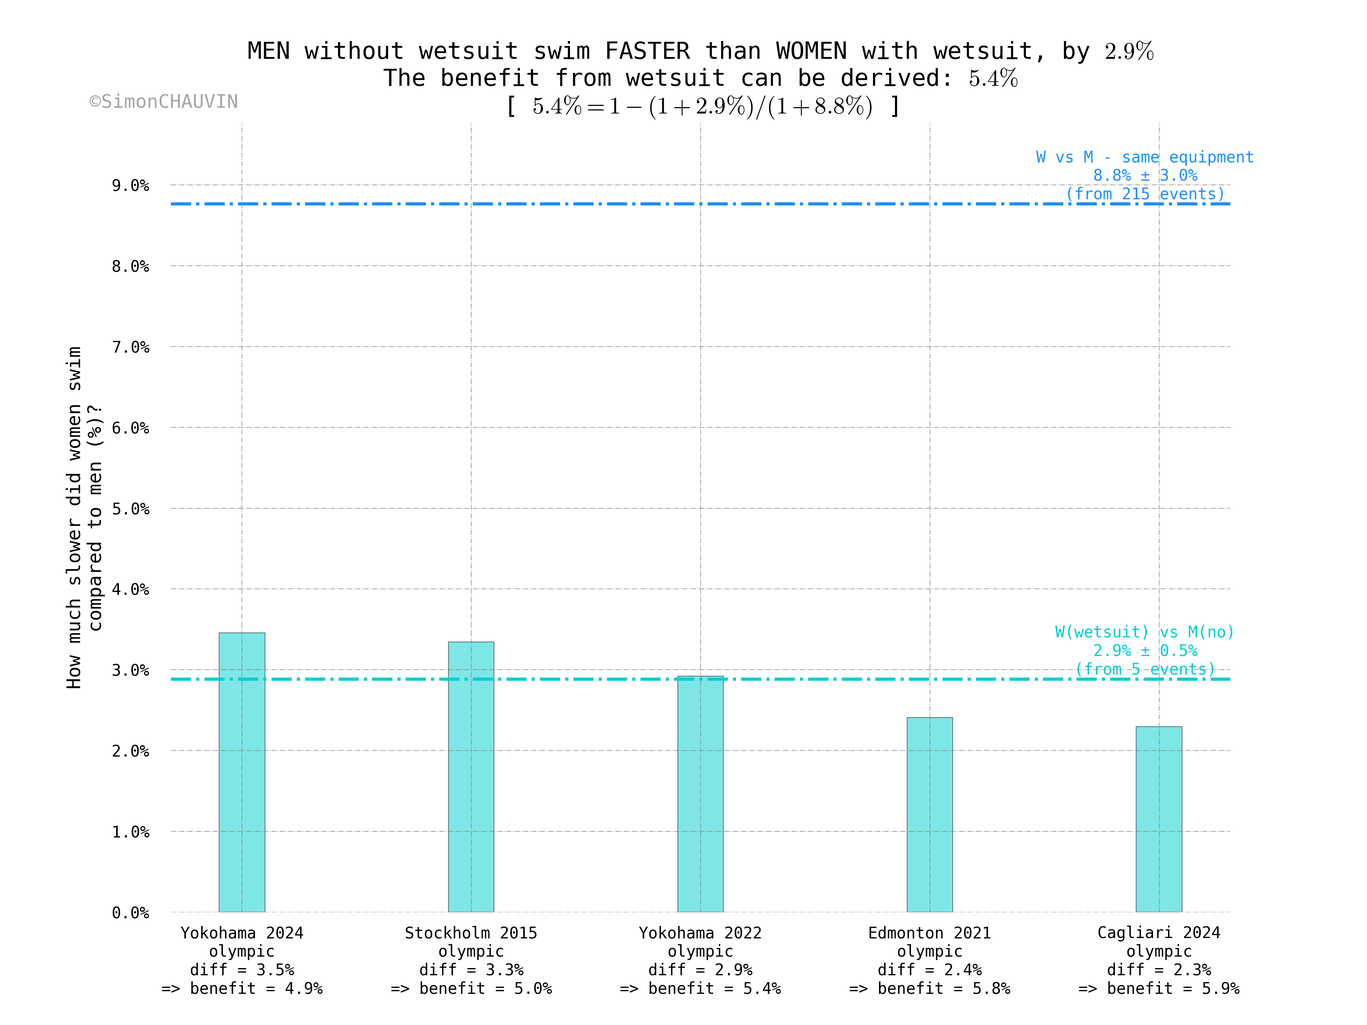
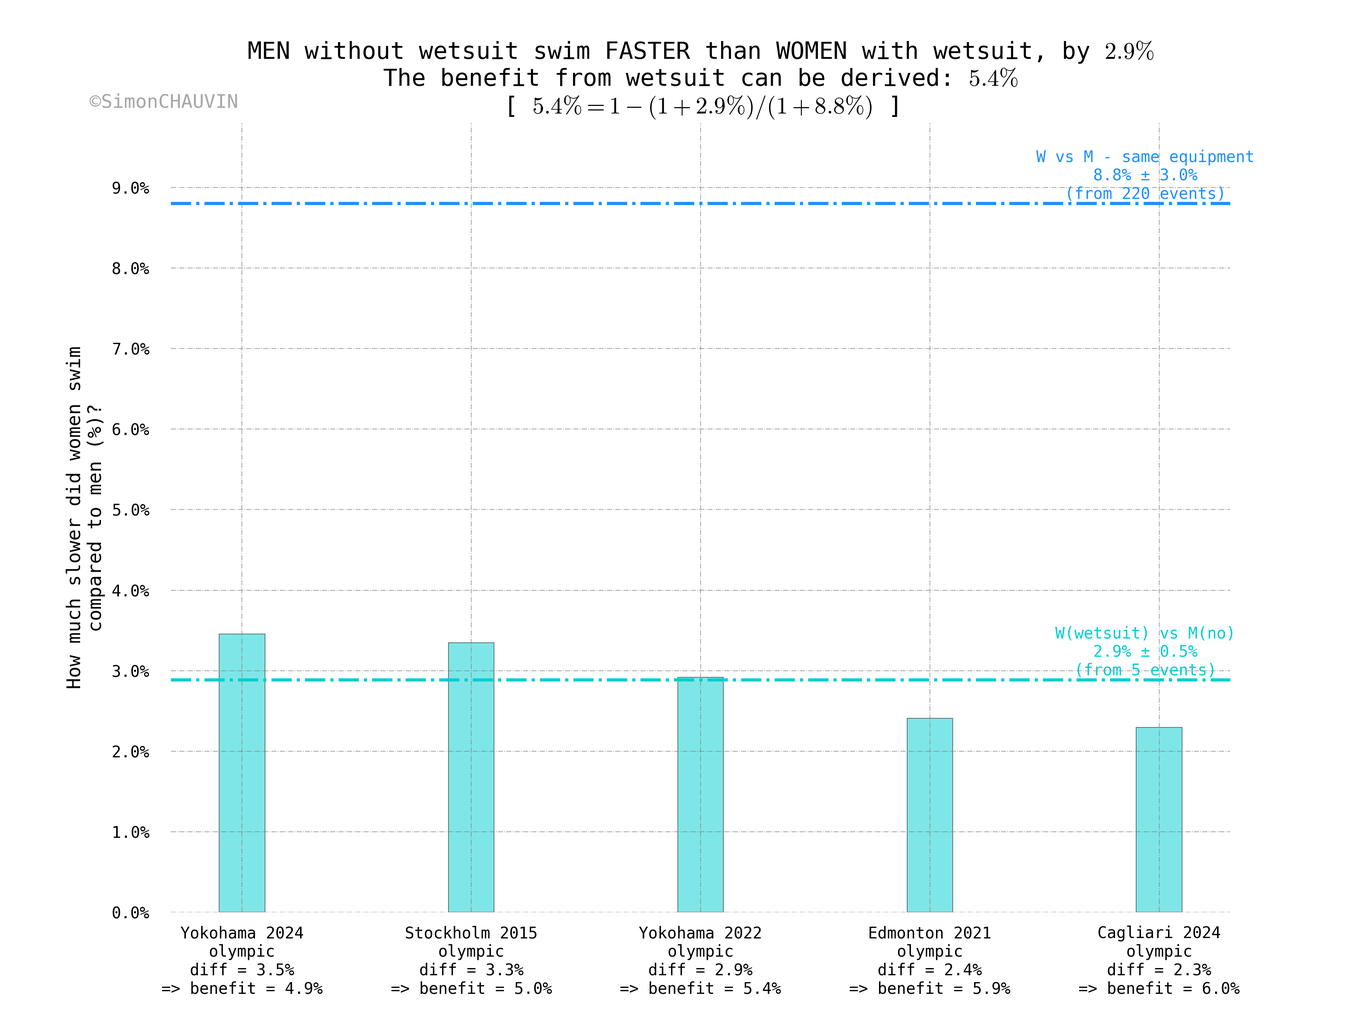
refine wetsuit

diff --git a/scripts/main_events.py b/scripts/main_events.py
@@ -18,6 +18,9 @@ def process_results_wetsuit(
         distance_categories,
         sport_outliers
 ):
+    # ? ignore World Cups
+    # df = df[df["event_category"] != "world-cup"]
+
     # remove outliers?
     outliers = df[df["swim_diff_percent"] >= swim_diff_percent_max]
     print(f"{len(outliers)} swim outliers:")
@@ -159,12 +162,14 @@ def process_results_wetsuit(
         colalign=["center"] * len(df_table.columns)
     ))
 
-    # ? ignore World Cups
+    # remove Sydney 2012 outlier
+    swim_diff_percent_women_fast = swim_diff_percent_women_fast[swim_diff_percent_women_fast["event_id"] != 54370]
+    # remove Haeundae 2021 outlier
+    swim_diff_percent_women_fast = swim_diff_percent_women_fast[swim_diff_percent_women_fast["event_id"] != 154591]
+
+    # ? ignore World Cups for women_fast
     swim_diff_percent_women_fast = swim_diff_percent_women_fast[
         swim_diff_percent_women_fast["event_category"] != "world-cup"]
-
-    # remove Sydney outlier
-    swim_diff_percent_women_fast = swim_diff_percent_women_fast[swim_diff_percent_women_fast["event_id"] != 54370]
 
     if len(swim_diff_percent_women_fast) == 0:
         print("no data where [women with wetsuit] and [men without wetsuit]")
@@ -389,7 +394,7 @@ def process_results_wetsuit(
             print(f"\twet_mean    = {wet_mean:.0f} ±{wet_std:.0f} ({len(wet):,})")
             print(f"\tno_wet_mean = {no_wet_mean:.0f} ±{no_wet_std:.0f} ({len(no_wet):,})")
             improve_percent = (no_wet_mean - wet_mean) / no_wet_mean
-            print(f"\timprove_percent = {improve_percent :.1%}")
+            print(f"\timprove_percent = {improve_percent :.2%}")
             print(f"\t range wetsuit: {wet.min()} - {wet.max()} = {wet.max() - wet.min()}")
             print(f"\t range no wetsuit: {no_wet.min()} - {no_wet.max()} = {no_wet.max() - no_wet.min()}")
             improve_percents.append(improve_percent)
@@ -832,9 +837,9 @@ def process_results_repeated_events(
         df,
         distance_categories,
         sports,
-        sport_outliers
+        sport_outliers,
+        n_repetitions_min
 ):
-    n_repetitions_min = 4
 
     df = df.sort_values("event_date_m")
 
@@ -2678,7 +2683,10 @@ def process_wetsuit_from_repeated_events(
         df,
         swim_diff_percent_max: float,
         distance_categories,
-        sport_outliers
+        sport_outliers,
+        max_year_gap,
+        min_wet_gain_percent,
+        max_wet_gain_percent,
 ):
     # remove outliers?
     outliers = df[df["swim_diff_percent"] >= swim_diff_percent_max]
@@ -2691,13 +2699,6 @@ def process_wetsuit_from_repeated_events(
     df = drop_outliers(df, i_sport=0, sport_outliers=sport_outliers)
 
     # rows with no wetsuit info have already been dropped
-
-
-    # todo: config
-    max_year_gap = 5
-    # todo: config
-    min_wet_gain_percent = -5
-    max_wet_gain_percent = 14
 
     swim_time_infos = []
     groups = df.groupby(["event_venue"])
@@ -2957,6 +2958,7 @@ def main():
 
     distance_categories = events_config["distance_categories"]
     sports = events_config["sports"]
+    n_repetitions_min = events_config["n_repetitions_min"]
     swim_diff_percent_max = events_config["cleaning"]["swim_diff_percent_max"]
     sport_outliers = events_config["cleaning"]["sport_outliers"]
     ###

diff --git a/scripts/main_t1_with_wetsuit.py b/scripts/main_t1_with_wetsuit.py
@@ -316,10 +316,67 @@ class Model1p5d(Model):
 
     def fit(self, df):
         df = self.clean_up_df(df)
-        df[f"t1_diff"] = df[f"t1_mean_w"] - df[f"t1_mean_m"]  # the two helmet terms cancel
-        df[f"t1_diff_percent"] = df[f"t1_diff"] / (df[f"t1_mean_m"] - self.helmet)
-        self.wm_diff_run = df[f"t1_diff_percent"].mean()
-        print(f"w/m difference at running during T1: {self.wm_diff_run = :.2%}")
+        df["t1_diff"] = df["t1_mean_w"] - df["t1_mean_m"]  # the two helmet terms cancel
+        df["t1_diff_percent"] = df["t1_diff"] / (df["t1_mean_m"] - self.helmet)
+
+        # remove outliers
+        diff_min = 0
+        diff_max = 0.3
+        df = df[df["t1_diff_percent"]>diff_min]
+        df = df[df["t1_diff_percent"]<diff_max]
+
+        mean = df['t1_diff_percent'].mean()
+        median = df['t1_diff_percent'].median()
+        std = df['t1_diff_percent'].std()
+        self.wm_diff_run = mean
+
+        # plot distribution
+        fig, ax = plt.subplots(figsize=(16, 16))
+        data_min = df["t1_diff_percent"].min()
+        data_max = df["t1_diff_percent"].max()
+        bins = np.arange(int(data_min) - 1, int(data_max) + 1, 0.01)
+        kwargs_hist = {
+            "density": True,
+            "bins": bins,
+        }
+        ax.set_xlim(data_min - 0.05, data_max + 0.05)
+        ax.xaxis.set_major_formatter(PercentFormatter(1))
+        ax.axvline(
+            mean,
+            linestyle="-",
+            color="red",
+            label=f"{mean = :.1%}"
+        )
+        ax.axvline(
+            median,
+            color="k",
+            linestyle="--",
+            label=f"{median = :.1%}"
+        )
+        ax.legend()
+        ax.grid()
+        ax.set_xlabel("wm_diff_run")
+        ax.set_ylabel("percentage")
+
+        plt.hist(df["t1_diff_percent"], **kwargs_hist)
+        title = (
+            f"w/m difference at running during T1: {self.wm_diff_run = :.2%}"
+            f"\nmedian = {median:.2%}"
+            f"\nstd = {std:.2%}"
+        )
+        plt.title(title)
+        print(title)
+
+        from scipy.stats import norm
+        mu, std = norm.fit(df["t1_diff_percent"])
+        xmin, xmax = plt.xlim()
+        x = np.linspace(xmin, xmax, 100)
+        p = norm.pdf(x, mu, std)
+        plt.plot(x, p, 'gray', linewidth=1, linestyle="-",
+                 label=f"Normal distribution ($\mu={mu:.1f}$, $\sigma={std:.1f}$)")
+
+        plt.savefig(res_dir / "wm_diff_run_t1.png")
+        plt.show()
 
     def infer(self, t1_men):
         """

diff --git a/README.md b/README.md
@@ -354,7 +354,7 @@ Notes about **swim data**:
 
 ---
 
-:bulb: FINDINGS:
+:bulb: **FINDINGS:**
 - :swimmer: The **swim** is the sport where the **relative difference** between women and men is the **smallest**.
   - Swimming is highly **technique-oriented**.
   - Women often excel in technical sports because these **rely less on raw strength** and more on skill, coordination, and efficiency.
@@ -620,11 +620,15 @@ The idea of the **derivation** is as follows:
   - In contrast, `wm_percent = 8.8%` was obtained by considering **all** the sprint- and olympic-format WCTS, world-cups and games-related events since 2009, totaling **230 events**.
     - This is inconsistent.
   - Instead, `wm_percent` should be estimated considering events with **similar swim conditions** as those for `wm_percent_w_fast`.
-    - Idea #1: Only consider events with the **same format** (olympic) and **event-category** (WTCS).
-      - This leads to a **slightly lower estimate** (`wm_percent = 8.1% ± 2.4%`), resulting in an **`improve_percent` closer to 4.8%**.
+    - Idea #1: Only consider events with the **same event-category** (WTCS), and possibly the **same format** (olympic). For comparison:
+      - WTCS-only: **`improve_percent=4.8%`**, with a lower women/men difference (8.1%).
+      - World-cups-only: **`improve_percent=4.0%`**, with a higher women/men difference (9.4%).
     - Idea #2: Further restrict Idea #1 (same format and event-category), by considering only with the **same venues**.
       - The four venues mentioned have **hosted multiple** olympic-WTCS: 20 times, from which **15** had women and men sharing the same equipment for the swim.
       - This gives `wm_percent = 7.4% ± 1.6%` (`SE = 1.6/sqrt(15) = 0.4%`), leading to **`improve_percent = 4.2%` with `0.3%` standard error**.
+    - Conclusions:
+      - There is a **trade-off between data-quantity and data-quality**.
+      - First refinements suggest wetsuit improvements **closer to 4-5%**.
 - **3) Additional examples**:
   - Several **other events** feature the _"women-with / men-without"_ scenario.
     - Tongyeong ( :kr: ) ([2011](https://www.triathlon.org/events/event/2011_tongyeong_itu_triathlon_world_cup), [2014](https://www.triathlon.org/events/event/2014_tongyeong_itu_triathlon_world_cup), [2016](https://www.triathlon.org/events/event/2016_tongyeong_itu_triathlon_world_cup)), [Arzachena ( :it: ) (2020)](https://www.triathlon.org/events/event/2020_arzachena_itu_triathlon_world_cup), [Haeundae ( :kr: ) (2021)](https://www.triathlon.org/events/event/2021_world_triathlon_cup_haeundae) are **world-cups** events, so they have not been included.
@@ -640,13 +644,13 @@ The idea of the **derivation** is as follows:
 <details>
   <summary>Click to expand - 🌍 <strong>Events used for the derivation.</strong></summary>
 
-|  YEAR  |                                                     EVENT                                                      |  DIFF (%) WOMEN-WITH vs MEN-without  |  **BENEFIT (%)**  |  DISTANCE  |  EVENT CATEGORY  |
-|:------:|:--------------------------------------------------------------------------------------------------------------:|:------------------------------------:|:-----------------:|:----------:|:----------------:|
-|  2024  | [Cagliari](https://www.triathlon.org/events/event/2024_world_triathlon_championship_series_cagliari) ( :it: )  |                 2.3%                 |     **4.7%**      |  olympic   |       WTCS       |
-|  2021  |   [Edmonton](https://www.triathlon.org/events/event/2021_world_triathlon_grand_final_edmonton) ( :canada: )    |                 2.4%                 |     **4.6%**      |  olympic   |       WTCS       |
-|  2022  | [Yokohama](https://www.triathlon.org/events/event/2022_world_triathlon_championship_series_yokohama) ( :jp: )  |                 2.9%                 |     **4.2%**      |  olympic   |       WTCS       |
-|  2015  |      [Stockholm](https://www.triathlon.org/events/event/2015_itu_world_triathlon_stockholm) ( :sweden: )       |                 3.3%                 |     **3.8%**      |  olympic   |       WTCS       |
-|  2024  | [Yokohama](https://www.triathlon.org/events/event/2023_world_triathlon_championship_series_yokohama1) ( :jp: ) |                 3.5%                 |     **3.7%**      |  olympic   |       WTCS       |
+|  YEAR  |                                                      EVENT                                                      |  DIFF (%) WOMEN-WITH vs MEN-without  |  **BENEFIT (%)**  |  DISTANCE  |  EVENT CATEGORY  |
+|:------:|:---------------------------------------------------------------------------------------------------------------:|:------------------------------------:|:-----------------:|:----------:|:----------------:|
+|  2024  |  [Cagliari](https://www.triathlon.org/events/event/2024_world_triathlon_championship_series_cagliari) ( :it: )  |                 2.3%                 |     **6.0%**      |  olympic   |       WTCS       |
+|  2021  |    [Edmonton](https://www.triathlon.org/events/event/2021_world_triathlon_grand_final_edmonton) ( :canada: )    |                 2.4%                 |     **5.9%**      |  olympic   |       WTCS       |
+|  2022  |  [Yokohama](https://www.triathlon.org/events/event/2022_world_triathlon_championship_series_yokohama) ( :jp: )  |                 2.9%                 |     **5.4%**      |  olympic   |       WTCS       |
+|  2015  |       [Stockholm](https://www.triathlon.org/events/event/2015_itu_world_triathlon_stockholm) ( :sweden: )       |                 3.3%                 |     **5.0%**      |  olympic   |       WTCS       |
+|  2024  | [Yokohama](https://www.triathlon.org/events/event/2023_world_triathlon_championship_series_yokohama1) ( :jp: )  |                 3.5%                 |     **4.9%**      |  olympic   |       WTCS       |
 
 </details>
 
@@ -684,12 +688,12 @@ When they can choose, **pro athletes decide to use the wetsuit** for **~300m swi
   <summary>Click to expand - 🐧 <strong>Answering the question <i>"wetsuit for 300m?"</i></strong></summary>
 
 Over **300m** a **wetsuit should save ~12s** (derivation below).
-- According to [the next section](#shower-wetsuit-at-t1), the **extra-time added by the wetsuit during T1** is **around 8-9 seconds**.
+- According to [the next section](#shower-wetsuit-at-t1), the **extra-time added by the wetsuit during T1** is **around 9 seconds**.
   - _Before this analysis, I would have estimated a lower impact, around 6s._
-- **Conclusion**: the **overall time gain of wearing the wetsuit for 300m seems to be positive: around 4s**.
+- **Conclusion**: the **overall time gain of wearing the wetsuit for 300m seems to be positive: around 3s**.
   - Apart from time saving, wetsuits offer additional benefits: temperature **comfort** and probably saving some **energy in the legs**. Also, athletes may a couple of seconds to breath while removing it at T1.
   - This information is apparently unknown to some athletes. At the [2024 Toulouse ( :fr: ) supertri](https://supertri.com/results/2024-toulouse-results-men/), [5/16 women](https://www.youtube.com/watch?v=asUQlc3Ic98&t=666) and [5/16 men](https://www.youtube.com/watch?v=asUQlc3Ic98&t=5163) decided **not to wear a wetsuit for the first 300m**. An interesting experiment!
-- Conversely, assuming **~8 seconds spent in T1** due to the wetsuit, wetsuit becomes advantageous only for swims longer than **~200m** for top athletes. For swims under ~200m, the wetsuit results in a net time loss.
+- Conversely, assuming **~9 seconds spent in T1** due to the wetsuit, wetsuit becomes advantageous only for swims longer than **~220m** for top athletes. For swims under ~220m, the wetsuit results in a net time loss.
 
 **Derivation:** The time for a 300m swim is probably **around 3:30 - 4:00**.
 - Here are some swim-times measured for 300m, without wetsuit:
@@ -747,9 +751,11 @@ Results from **186 comparisons**:
 	- Women+Men  : **`mean = 3.5%`**, **`median = 3.6%`**. (`std = 3.5`)
 	- Women only : `mean = 3.6%`, `median = 3.6%`. (`std = 3.2`)
 	- Men only   : `mean = 3.4%`, `median = 3.3%`. (`std = 3.7`)
-- **Women vs Men: `0.2%` (with means) or `0.3%` (with medians)**.
+- **Women vs Men**: `0.2%` (with means) or `0.3%` (with medians).
 
-:bulb: FINDINGS AND DISCUSSION:
+---
+
+:bulb: **FINDINGS AND DISCUSSION:**
 - Challenge: **the swim course varies** across years.
   - The year-to-year comparison incorporates a substantial amount of data (nearly **200 estimates**) and assumes that while some samples may yield **low estimates** and **others high**, the **large dataset size** ensures **these variations balance out**.
     - This approach justifies **including negative estimates**, as the presence of very large benefits is also unlikely.
@@ -758,12 +764,16 @@ Results from **186 comparisons**:
   - Outliers, however, are addressed by removing estimates **below -5% and above 14%**.
   - To further limit the impact of outliers, comparisons are restricted to **years in close proximity**.
     - The choice of **5 years** as the cutoff is another parameter of the analysis.
-- Comparison between methods:
-  - First method: **`improve_percent = 5.4%`** (women only), leveraging events where the "`women-without` / `men-with-wetsuit` scenario" occurs.
-  - Second method: **`improve_percent = 3.6%`**, using on **year-to-year comparisons**.
-  - The second method also suggests that **women benefit _slightly_ more from the wetsuit**, with an improvement difference of 0.2–0.3%.
+- Women/men:
+  - The second and third methods suggest that **women benefit _slightly_ more from the wetsuit**, with a tiny improvement difference of 0.1-0.3%.
     - This finding is somewhat surprising, given that women already have **a higher natural buoyancy**, which could suggest a smaller relative benefit.
     - The first method **could only compute `improve_percent` for women**, limiting direct comparability.
+- **Wetsuit benefit:**
+  - First method: **`improve_percent = 5.4%`** (women only), leveraging events where the "`women-without` / `men-with-wetsuit` scenario" occurs.
+    - **Refinements** of this method suggest **lower benefits**, around **4-5%**.
+  - Second method: **`improve_percent = 3.6%`**, using on **year-to-year comparisons**.
+  - Third method (below): **`improve_percent = 4.1%`** (olympic format only), comparing average times with- and without-wetsuit.
+  - _Which method do you think is the most appropriate? What could be improved? If you have any comments or ideas, please do not hesitate to contact me!_
 
 <details>
   <summary>Click to expand - ⚖ <strong>Full list of comparisons used for this derivation.</strong></summary>
@@ -1428,30 +1438,30 @@ Parameters:
 - `helmet_duration` is set to **3s**.
   - Testing **values of 1 or 5 seconds** showed variations of less than 0.15 seconds in the final `extra_time_for_wetsuit` estimate.
 - `diff_wm_t1_run` is estimating using the **147 events** where both women and men swam without wetsuit.
-  - It is found to be **`11.8%`**, i.e. **women run 11.8% slower than men during T1**.
+  - It is found to be **`10.0%`**, i.e. **women run 10% slower than men during T1**.
   - This value is further discussed in a subsequent paragraph.
 
 The derived `f_from_men_to_women_no_wetsuit` function is applied to events featuring the **women-without / men-with** scenario:
 
 |  YEAR  |                                                      EVENT                                                      |  **EXTRA TIME FOR WETSUIT** (women) (s)  |  EVENT CATEGORY  |
 |:------:|:---------------------------------------------------------------------------------------------------------------:|:----------------------------------------:|:----------------:|
-|  2011  |       [Tongyeong](https://www.triathlon.org/events/event/2011_tongyeong_itu_triathlon_world_cup) ( :kr: )       |                 **5.8**                  |    WORLD-CUP     |
-|  2020  | [Cannigione, Arzachena](https://www.triathlon.org/events/event/2020_arzachena_itu_triathlon_world_cup) ( :it: ) |                 **6.2**                  |    WORLD-CUP     |
-|  2021  |          [Haeundae](https://www.triathlon.org/events/event/2021_world_triathlon_cup_haeundae) ( :kr: )          |                 **7.3**                  |    WORLD-CUP     |
-|  2014  |       [Tongyeong](https://www.triathlon.org/events/event/2014_tongyeong_itu_triathlon_world_cup) ( :kr: )       |                 **7.4**                  |    WORLD-CUP     |
-|  2012  |        [Sydney](https://www.triathlon.org/events/event/2012_itu_world_triathlon_sydney) ( :australia: )         |                 **7.5**                  |       WTCS       |
-|  2024  |  [Cagliari](https://www.triathlon.org/events/event/2024_world_triathlon_championship_series_cagliari) ( :it: )  |                 **8.1**                  |       WTCS       |
-|  2022  |  [Yokohama](https://www.triathlon.org/events/event/2022_world_triathlon_championship_series_yokohama) ( :jp: )  |                 **8.6**                  |       WTCS       |
-|  2024  | [Yokohama](https://www.triathlon.org/events/event/2023_world_triathlon_championship_series_yokohama1) ( :jp: )  |                 **8.7**                  |       WTCS       |
-|  2015  |       [Stockholm](https://www.triathlon.org/events/event/2015_itu_world_triathlon_stockholm) ( :sweden: )       |                 **9.1**                  |       WTCS       |
-|  2016  |       [Tongyeong](https://www.triathlon.org/events/event/2016_tongyeong_itu_triathlon_world_cup) ( :kr: )       |                 **9.3**                  |    WORLD-CUP     |
-|  2021  |    [Edmonton](https://www.triathlon.org/events/event/2021_world_triathlon_grand_final_edmonton) ( :canada: )    |                 **10.4**                 |       WTCS       |
+|  2011  |       [Tongyeong](https://www.triathlon.org/events/event/2011_tongyeong_itu_triathlon_world_cup) ( :kr: )       |                 **6.5**                  |    WORLD-CUP     |
+|  2020  | [Cannigione, Arzachena](https://www.triathlon.org/events/event/2020_arzachena_itu_triathlon_world_cup) ( :it: ) |                 **6.8**                  |    WORLD-CUP     |
+|  2021  |          [Haeundae](https://www.triathlon.org/events/event/2021_world_triathlon_cup_haeundae) ( :kr: )          |                 **7.8**                  |    WORLD-CUP     |
+|  2014  |       [Tongyeong](https://www.triathlon.org/events/event/2014_tongyeong_itu_triathlon_world_cup) ( :kr: )       |                 **8.1**                  |    WORLD-CUP     |
+|  2024  |  [Cagliari](https://www.triathlon.org/events/event/2024_world_triathlon_championship_series_cagliari) ( :it: )  |                 **8.6**                  |       WTCS       |
+|  2012  |        [Sydney](https://www.triathlon.org/events/event/2012_itu_world_triathlon_sydney) ( :australia: )         |                 **8.8**                  |       WTCS       |
+|  2022  |  [Yokohama](https://www.triathlon.org/events/event/2022_world_triathlon_championship_series_yokohama) ( :jp: )  |                 **9.5**                  |       WTCS       |
+|  2024  | [Yokohama](https://www.triathlon.org/events/event/2023_world_triathlon_championship_series_yokohama1) ( :jp: )  |                 **9.6**                  |       WTCS       |
+|  2015  |       [Stockholm](https://www.triathlon.org/events/event/2015_itu_world_triathlon_stockholm) ( :sweden: )       |                 **9.9**                  |       WTCS       |
+|  2016  |       [Tongyeong](https://www.triathlon.org/events/event/2016_tongyeong_itu_triathlon_world_cup) ( :kr: )       |                 **10.0**                 |    WORLD-CUP     |
+|  2021  |    [Edmonton](https://www.triathlon.org/events/event/2021_world_triathlon_grand_final_edmonton) ( :canada: )    |                 **11.3**                 |       WTCS       |
 
 Results:
-- mean = median = **8.1 seconds** (from 11 events).
+- mean = median = **8.8 seconds** (from 11 events).
 - Restricting to **world-series**:
-  - The w/m difference for running during T1 drops from 11.8% to **9.4%** (from 59 events).
-  - The estimated `extra_time_for_wetsuit` for women raises to **9.9 seconds** (from 6 events).
+  - The w/m difference for **running during T1** stays around 10% (**9.8%**) (from 59 events).
+  - The estimated `extra_time_for_wetsuit` for women raises by ~1s to **9.7 seconds** (from 6 events).
 
 Notes:
 - Using the women/men comparison offers a strong advantage: the **exact distance** of T1 **does not matter**, as the course and timing methods are **identical for both genders**.
@@ -1459,10 +1469,10 @@ Notes:
 
 ---
 
-:bulb: FINDINGS AND DISCUSSION:
+:bulb: **FINDINGS AND DISCUSSION:**
 - **Both methods** to estimate `extra_time_for_wetsuit` yield **similar results**:
-  - The **time charged to the wetsuit** during the T1 transition lays **between 8 and 10 seconds**.
-    - For **world-series events**, both methods give the same estimate: **around 10 seconds**.
+  - The **time charged to the wetsuit** during the T1 transition lays **around 9 seconds**.
+    - For **world-series events**, it is a bit higher: **around 10 seconds**.
   - These estimations could serve as **training references for coaches and athletes**.
 - I would first have **expected a lower time**.
   - However, T1 involves **more than just removing the wetsuit** in front of the bike.
@@ -1471,7 +1481,7 @@ Notes:
 - Two additional findings regarding the **women/men comparison**:
   - Women appear **slightly more affected** by the wetsuit.
     - But the **difference is tiny: < 0.4s**, and completely **negligible at the world-series level**.
-  - **Women run 11.8% slower** than men during T1 (**9.4%** when restricted to **world-series**).
+  - **Women run 10% slower** than men during T1.
     - This percentage can be compared to the results of [the women/men comparison section](#couple-women-vs-men), in particular the **~14% for the running leg**.
     - Probably all athletes **run slower** during T1 compared to the subsequent 5k or 10k. For diverse reasons:
       - They are **barefoot**.
@@ -2955,11 +2965,11 @@ Here are some simplified **key takeaways**:
 - :swimmer: Women swim at **1:18 / 100m**, men at **1:12 / 100m**.
 - :bicyclist: Women ride **4 km/h slower**, at **37.4 km/h**, compared to men at **41.4 km/h**.
 - :runner: Women run the 10k at **3:33 min/km** (3:26 for 5k), men at **3:07 min/km** (3:00 for 5k).
-- :shower: The time charged to the **wetsuit during the T1** transition is **~10s**.
+- :shower: The time charged to the **wetsuit during the T1** transition is **~9s**.
 - :couple: **Women swim 8.8% slower** than men with the same equipment. They also **ride 10.6%** and **run 14.2%** slower.
 - :chart_with_downwards_trend: The **women/men difference has not significantly reduced** on the years, except for the run leg of the sprint-format races (-0.13 % / year) and for the swim of WTCS (-11 % / year).
 - :penguin: There is **no evidence that wetsuits reduce swim gaps** between top and less competitive swimmers.
-- :one_piece_swimsuit: Swim is **~5% faster with wetsuit** _(to be refined)_.
+- :one_piece_swimsuit: Swim is **4-5% faster with wetsuit**.
 - :fr: The **swim** of 2024 Paris Olympics was **unusually long** (more than **2:30 longer**), probably because of the current in La Seine. In particular, the 5-9th women swam **more than 1:30 / 100m**.
 - :zap: Winning by a **run comeback**, i.e. after not ending the bike in the front group, is entertaining but **rare** in the olympic format (28% for men and 7% for women) and is getting even rarer.
 - :bicyclist: The **size of the front group** after bike averages around **15**. It decreases to 4 or fewer (**small breakaway**) in about **1/4 of women's** and **1/3 of men's** olympic-races.
